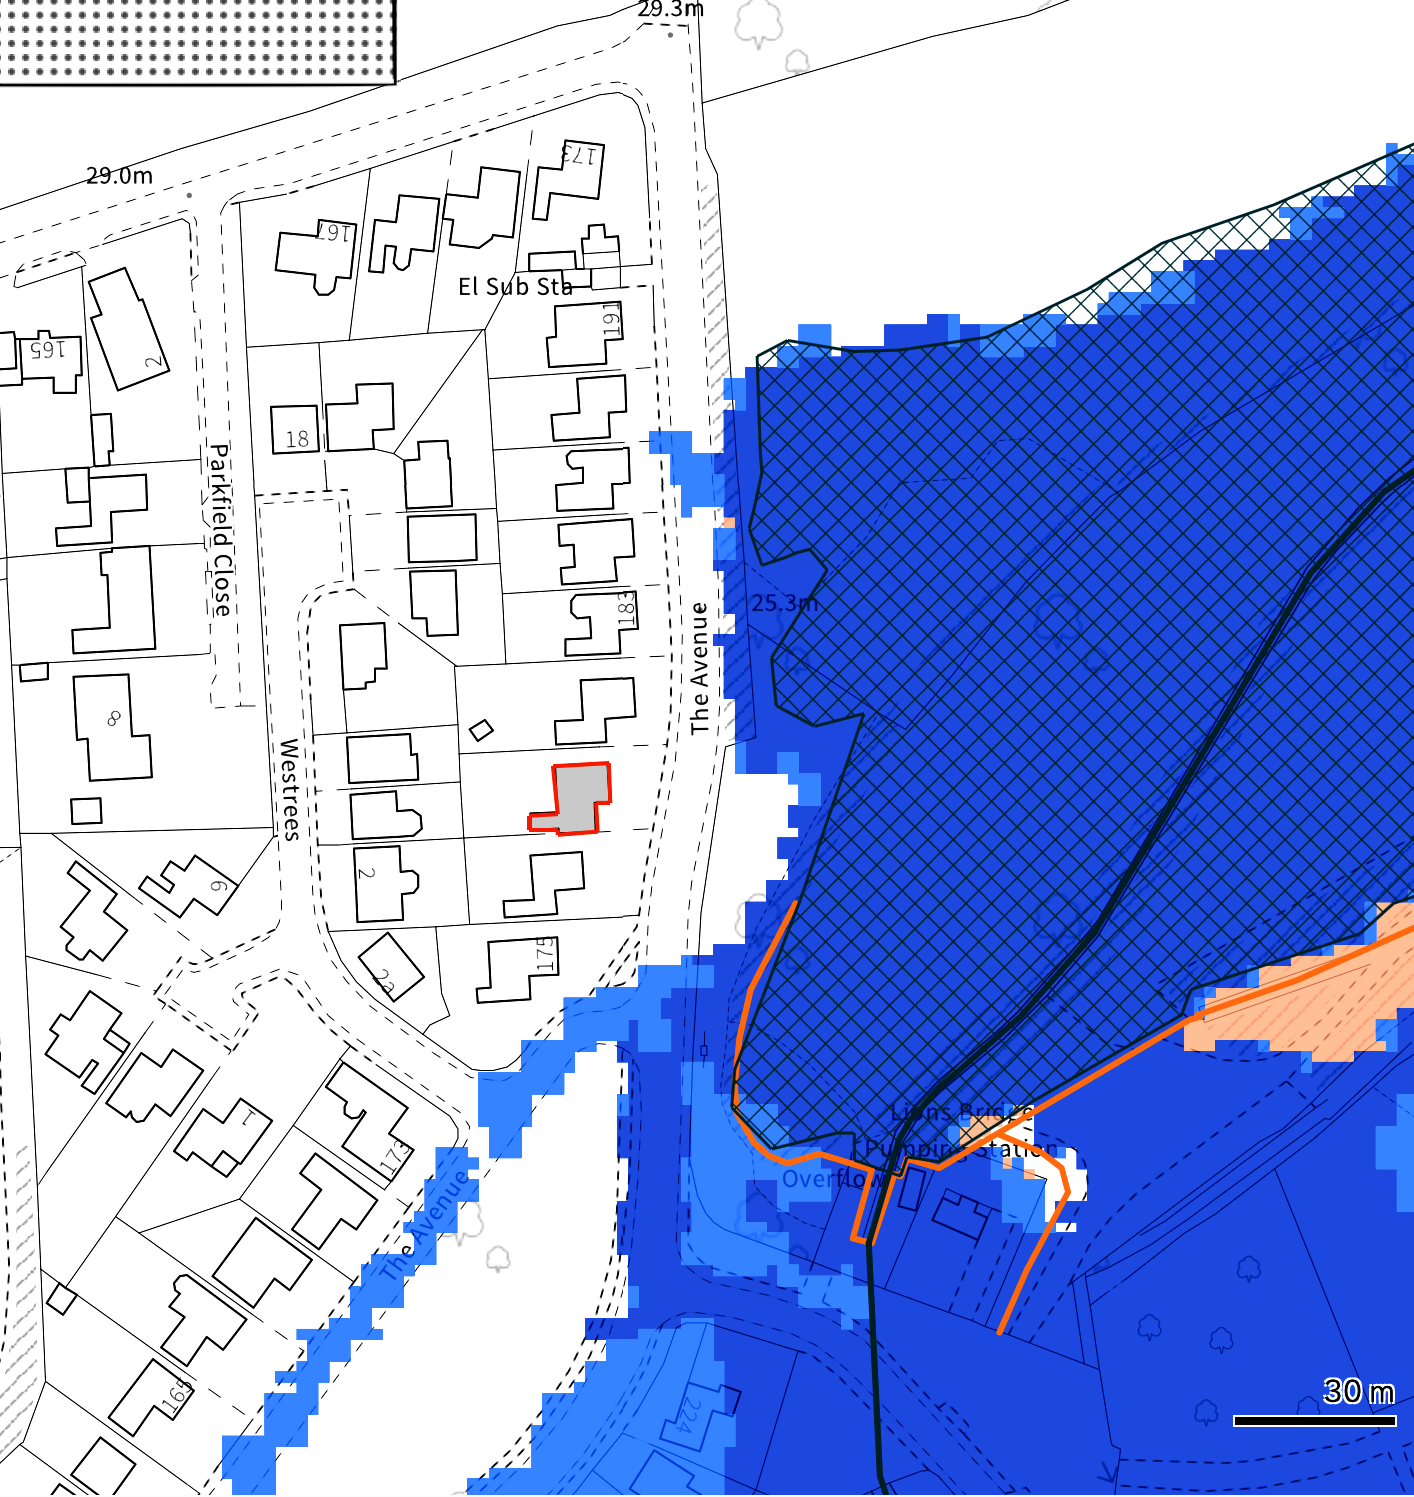
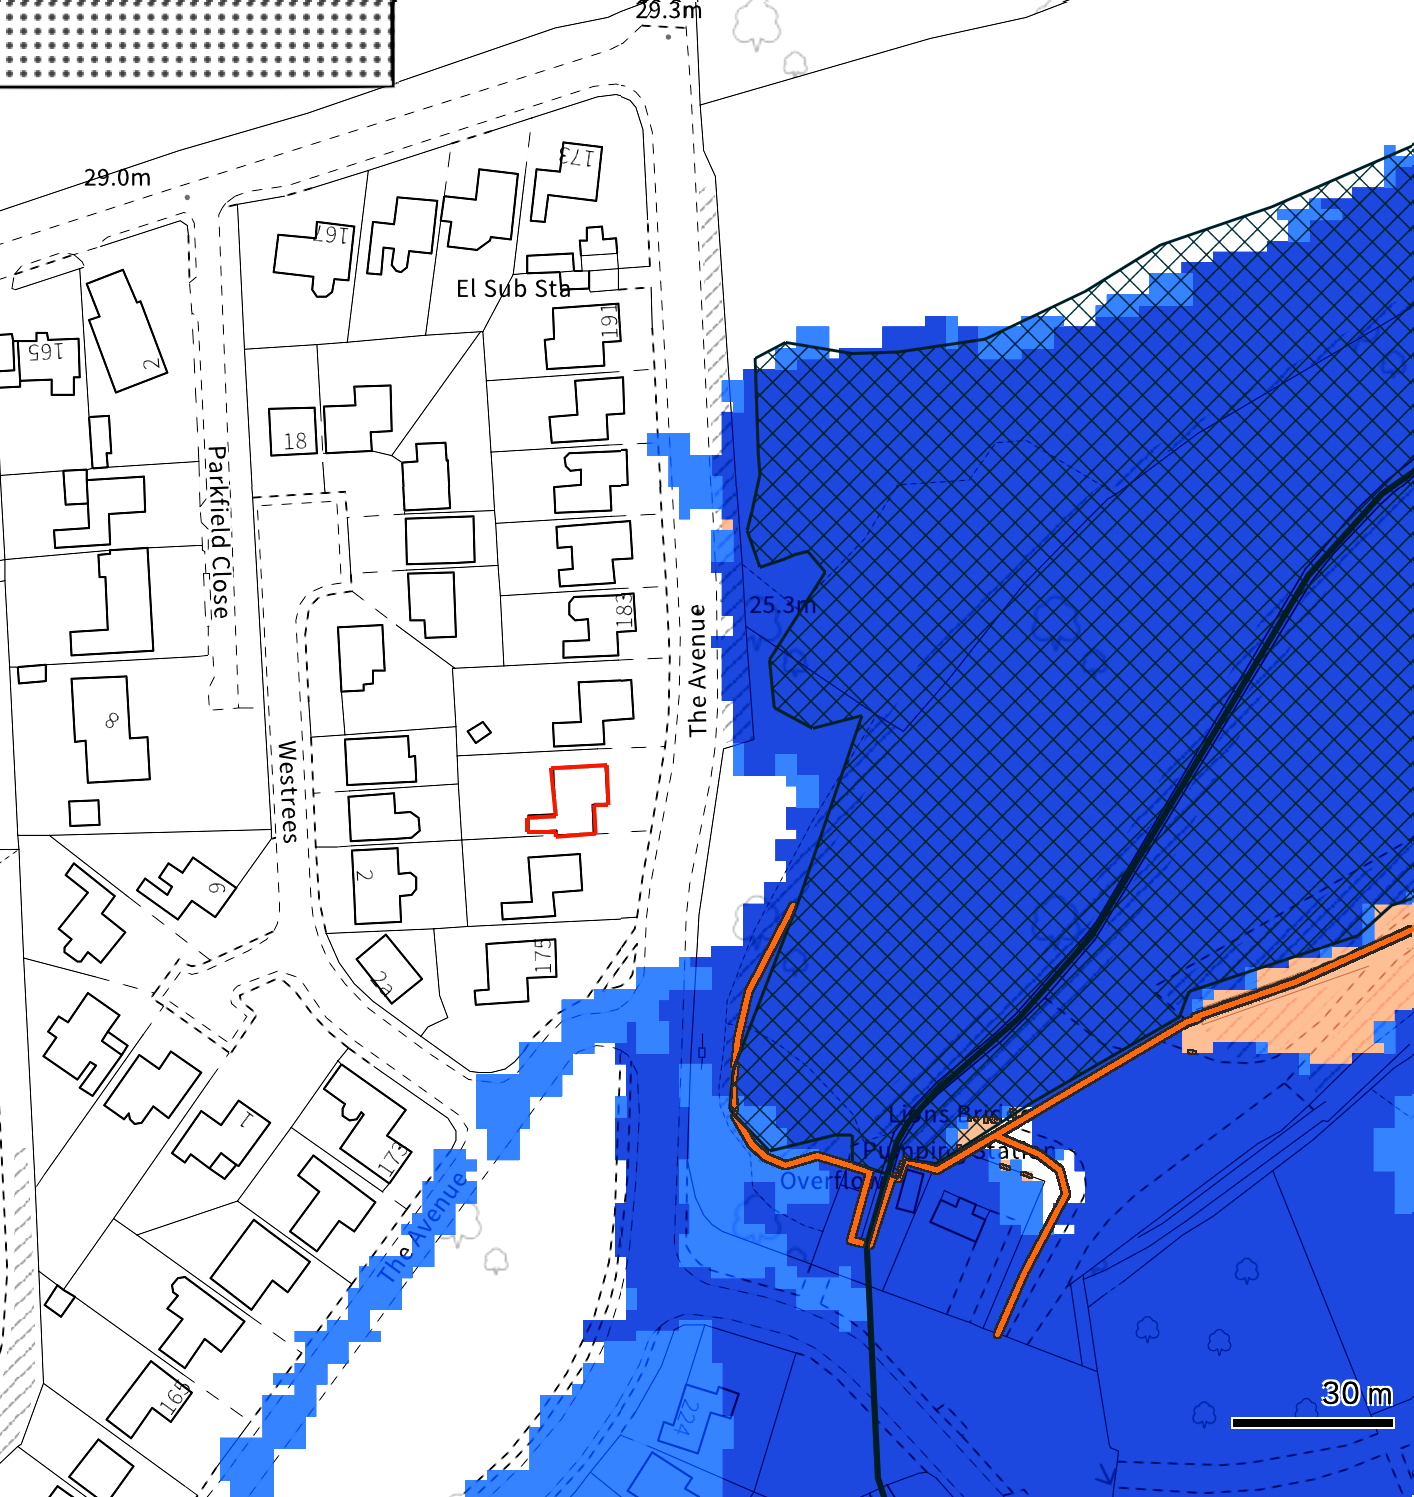
updated legend groups spacing and defences styles in map and key

diff --git a/app/views/v3-7-0-3/product1-3.html b/app/views/v3-7-0-3/product1-3.html
@@ -242,12 +242,11 @@
             <div class="map-legend"style="height: 876px">
               <div class="map-legend-parameters">
 
-                    <div class="parameter">
-                  <h3 class="govuk-heading-s">Flood zones 2 and 3</h3>
+                    <div class="parameter" style="padding-bottom: 30px;">
+                  <h3 class="govuk-heading-s">Flood zones</h3>
                   <p class="govuk-body">Present day, and climate change</p>
                 </div>
 
-<hr class="govuk-section-break govuk-section-break--m govuk-section-break--visible" style="margin-bottom: 0px;">
 
                 <div class="parameter">
                   <h3 class="govuk-heading-s"> Your reference </h3>
@@ -266,12 +265,14 @@
                   </div>
 
                 <!-- Date -->
-                <div class="parameter">
+                    <div class="parameter" style="padding-bottom: 35px;">
                   <h3 class="govuk-heading-s"> Created </h3>
                   <p class="govuk-body"> 05/05/2026 10:29 </p>
                 </div>
               </div>
               <div class="map-legend-values">
+               <h3 class="govuk-heading-s" style="margin-bottom: -10px; margin-left: 8px;"> Key </h3>
+
                 <div class="value" style="margin-top: 1em;">
                   <div class="img"><div class="fm-c-layers__image fm-c-layers__image--query-polygon"><svg width="40" height="40" viewBox="0 0 40 40" fill="none"><path d="M9 9h22v22H9z"></path></svg></div></path></svg></div>
                   <div class="govuk-body" style="line-height: 2em;">Selected area</div>
@@ -291,11 +292,11 @@
                 </div>
 
                 <div class="value">
-                  <div class="img"><svg xmlns="http://www.w3.org/2000/svg" width="40" height="40" viewBox="0 0 40 40" fill-rule="evenodd" stroke-linejoin="round" stroke-miterlimit="2" xmlns:v="https://vecta.io/nano" class="fm-c-symbol" fill="#f47738"><path d="M8 17h24v6H8z"></path></svg></div>
+                  <div class="img"><svg xmlns="http://www.w3.org/2000/svg" width="40" height="40" viewBox="0 0 40 40" fill-rule="evenodd" stroke-linejoin="round" stroke-miterlimit="2" xmlns:v="https://vecta.io/nano" class="fm-c-symbol" fill="#f47738"><path d="M8 17h24v6H8z"></path><path d="M8 17h24" stroke="#000" stroke-width="2" fill="none"></path><path d="M8 23h24" stroke="#000" stroke-width="2" fill="none"></path></svg></div>
                   <div class="govuk-body" style="line-height: 2em;">Flood defence</div>
                 </div>
                 <div class="value">
-                  <div class="img"><div class="fm-c-layers__image fm-c-layers__image--icon"><svg xmlns="http://www.w3.org/2000/svg" width="40" height="40" viewBox="0 0 40 40" fill-rule="evenodd" stroke-linejoin="round" stroke-miterlimit="2" xmlns:v="https://vecta.io/nano" class="fm-c-symbol" fill="#12393d"><path d="M8 17h24v6H8z"></path></svg></div></div>
+                  <div class="img"><div class="fm-c-layers__image fm-c-layers__image--icon"><svg xmlns="http://www.w3.org/2000/svg" width="40" height="40" viewBox="0 0 40 40" fill-rule="evenodd" stroke-linejoin="round" stroke-miterlimit="2" xmlns:v="https://vecta.io/nano" class="fm-c-symbol" fill="#12393d"><path d="M8 17h24v6H8z"></path><path d="M8 17h24" stroke="#000" stroke-width="2" fill="none"></path><path d="M8 23h24" stroke="#000" stroke-width="2" fill="none"></path></svg></div></div>
                   <div class="govuk-body" style="line-height: 2em; ">Main river</div>
                 </div>
                 <div class="value">
@@ -324,12 +325,11 @@
 
     
               <div class="map-legend-parameters">
-                  <div class="parameter">
-                  <h3 class="govuk-heading-s">Surface water</h3>
+                    <div class="parameter" style="padding-bottom: 25px;">
+                  <h3 class="govuk-heading-s"">Surface water</h3>
                   <p class="govuk-body">1 in 100, present day</p>
                 </div>
 
-<hr class="govuk-section-break govuk-section-break--m govuk-section-break--visible" style="margin-bottom: 0px;">
 
                 <div class="parameter">
                   <h3 class="govuk-heading-s"> Your reference </h3>
@@ -341,12 +341,14 @@
                   <p class="govuk-body"> 395360/340050 </p>
                 </div>
                 <!-- Date -->
-                <div class="parameter">
+                    <div class="parameter" style="padding-bottom: 35px;">
                   <h3 class="govuk-heading-s"> Created </h3>
                   <p class="govuk-body"> 05/05/2026 10:29 </p>
                 </div>
               </div>
               <div class="map-legend-values">
+               <h3 class="govuk-heading-s" style="margin-bottom: -10px; margin-left: 8px;"> Key </h3>
+
                 <div class="value" style="margin-top: 1em;">
                   <div class="img"><div class="fm-c-layers__image fm-c-layers__image--query-polygon"><svg width="40" height="40" viewBox="0 0 40 40" fill="none"><path d="M9 9h22v22H9z"></path></svg></div></path></svg></div>
                   <div class="govuk-body" style="line-height: 2em;">Selected area</div>
@@ -356,11 +358,11 @@
                   <div class="govuk-body" style="line-height: 2em;">Full flood extent</div>
                 </div>
                 <div class="value">
-                  <div class="img"><svg xmlns="http://www.w3.org/2000/svg" width="40" height="40" viewBox="0 0 40 40" fill-rule="evenodd" stroke-linejoin="round" stroke-miterlimit="2" xmlns:v="https://vecta.io/nano" class="fm-c-symbol" fill="#f47738"><path d="M8 17h24v6H8z"></path></svg></div>
+                  <div class="img"><svg xmlns="http://www.w3.org/2000/svg" width="40" height="40" viewBox="0 0 40 40" fill-rule="evenodd" stroke-linejoin="round" stroke-miterlimit="2" xmlns:v="https://vecta.io/nano" class="fm-c-symbol" fill="#f47738"><path d="M8 17h24v6H8z"></path><path d="M8 17h24" stroke="#000" stroke-width="2" fill="none"></path><path d="M8 23h24" stroke="#000" stroke-width="2" fill="none"></path></svg></div>
                   <div class="govuk-body" style="line-height: 2em;">Flood defence</div>
                 </div>
                 <div class="value">
-                  <div class="img"><div class="fm-c-layers__image fm-c-layers__image--icon"><svg xmlns="http://www.w3.org/2000/svg" width="40" height="40" viewBox="0 0 40 40" fill-rule="evenodd" stroke-linejoin="round" stroke-miterlimit="2" xmlns:v="https://vecta.io/nano" class="fm-c-symbol" fill="#12393d"><path d="M8 17h24v6H8z"></path></svg></div></div>
+                  <div class="img"><div class="fm-c-layers__image fm-c-layers__image--icon"><svg xmlns="http://www.w3.org/2000/svg" width="40" height="40" viewBox="0 0 40 40" fill-rule="evenodd" stroke-linejoin="round" stroke-miterlimit="2" xmlns:v="https://vecta.io/nano" class="fm-c-symbol" fill="#12393d"><path d="M8 17h24v6H8z"></path><path d="M8 17h24" stroke="#000" stroke-width="2" fill="none"></path><path d="M8 23h24" stroke="#000" stroke-width="2" fill="none"></path></svg></div></div>
                   <div class="govuk-body" style="line-height: 2em; ">Main river</div>
                 </div>
                 <div class="value">
@@ -383,13 +385,13 @@
             <div class="map-legend" style="height: 656px;">
 
               <div class="map-legend-parameters">
-                    <div class="parameter">
+                    <div class="parameter" style="padding-bottom: 25px;">
                   <h3 class="govuk-heading-s">Surface water</h3>
                   <p class="govuk-body">1 in 100, climate change</p>
                 </div>
 
-<hr class="govuk-section-break govuk-section-break--m govuk-section-break--visible" style="margin-bottom: 0px;">
-                <div class="parameter">
+
+<div class="parameter">
                   <h3 class="govuk-heading-s"> Your reference </h3>
                   <p class="govuk-body"> Residential site </p>
                 </div>
@@ -399,12 +401,14 @@
                   <p class="govuk-body"> 395360/340050 </p>
                 </div>
                 <!-- Date -->
-                <div class="parameter">
+                    <div class="parameter" style="padding-bottom: 35px;">
                   <h3 class="govuk-heading-s"> Created </h3>
                   <p class="govuk-body"> 05/05/2026 10:29 </p>
                 </div>
               </div>
               <div class="map-legend-values">
+                <h3 class="govuk-heading-s" style="margin-bottom: -10px; margin-left: 8px;"> Key </h3>
+
                 <div class="value" style="margin-top: 1em;">
                   <div class="img"><div class="fm-c-layers__image fm-c-layers__image--query-polygon"><svg width="40" height="40" viewBox="0 0 40 40" fill="none"><path d="M9 9h22v22H9z"></path></svg></div></path></svg></div>
                   <div class="govuk-body" style="line-height: 2em;">Selected area</div>
@@ -414,11 +418,11 @@
                   <div class="govuk-body" style="line-height: 2em;">Full flood extent</div>
                 </div>
                 <div class="value">
-                  <div class="img"><svg xmlns="http://www.w3.org/2000/svg" width="40" height="40" viewBox="0 0 40 40" fill-rule="evenodd" stroke-linejoin="round" stroke-miterlimit="2" xmlns:v="https://vecta.io/nano" class="fm-c-symbol" fill="#f47738"><path d="M8 17h24v6H8z"></path></svg></div>
+                  <div class="img"><svg xmlns="http://www.w3.org/2000/svg" width="40" height="40" viewBox="0 0 40 40" fill-rule="evenodd" stroke-linejoin="round" stroke-miterlimit="2" xmlns:v="https://vecta.io/nano" class="fm-c-symbol" fill="#f47738"><path d="M8 17h24v6H8z"></path><path d="M8 17h24" stroke="#000" stroke-width="2" fill="none"></path><path d="M8 23h24" stroke="#000" stroke-width="2" fill="none"></path></svg></div>
                   <div class="govuk-body" style="line-height: 2em;">Flood defence</div>
                 </div>
                 <div class="value">
-                  <div class="img"><div class="fm-c-layers__image fm-c-layers__image--icon"><svg xmlns="http://www.w3.org/2000/svg" width="40" height="40" viewBox="0 0 40 40" fill-rule="evenodd" stroke-linejoin="round" stroke-miterlimit="2" xmlns:v="https://vecta.io/nano" class="fm-c-symbol" fill="#12393d"><path d="M8 17h24v6H8z"></path></svg></div></div>
+                  <div class="img"><div class="fm-c-layers__image fm-c-layers__image--icon"><svg xmlns="http://www.w3.org/2000/svg" width="40" height="40" viewBox="0 0 40 40" fill-rule="evenodd" stroke-linejoin="round" stroke-miterlimit="2" xmlns:v="https://vecta.io/nano" class="fm-c-symbol" fill="#12393d"><path d="M8 17h24v6H8z"></path><path d="M8 17h24" stroke="#000" stroke-width="2" fill="none"></path><path d="M8 23h24" stroke="#000" stroke-width="2" fill="none"></path></svg></div></div>
                   <div class="govuk-body" style="line-height: 2em; ">Main river</div>
                 </div>
                 <div class="value">
@@ -465,11 +469,11 @@
                   <div class="govuk-body" style="line-height: 2em;">Extent over 300mm</div>
                 </div>
                 <div class="value">
-                  <div class="img"><svg xmlns="http://www.w3.org/2000/svg" width="40" height="40" viewBox="0 0 40 40" fill-rule="evenodd" stroke-linejoin="round" stroke-miterlimit="2" xmlns:v="https://vecta.io/nano" class="fm-c-symbol" fill="#f47738"><path d="M8 17h24v6H8z"></path></svg></div>
+                  <div class="img"><svg xmlns="http://www.w3.org/2000/svg" width="40" height="40" viewBox="0 0 40 40" fill-rule="evenodd" stroke-linejoin="round" stroke-miterlimit="2" xmlns:v="https://vecta.io/nano" class="fm-c-symbol" fill="#f47738"><path d="M8 17h24v6H8z"></path><path d="M8 17h24" stroke="#000" stroke-width="2" fill="none"></path><path d="M8 23h24" stroke="#000" stroke-width="2" fill="none"></path></svg></div>
                   <div class="govuk-body" style="line-height: 2em;">Flood defence</div>
                 </div>
                 <div class="value">
-                  <div class="img"><div class="fm-c-layers__image fm-c-layers__image--icon"><svg xmlns="http://www.w3.org/2000/svg" width="40" height="40" viewBox="0 0 40 40" fill-rule="evenodd" stroke-linejoin="round" stroke-miterlimit="2" xmlns:v="https://vecta.io/nano" class="fm-c-symbol" fill="#12393d"><path d="M8 17h24v6H8z"></path></svg></div></div>
+                  <div class="img"><div class="fm-c-layers__image fm-c-layers__image--icon"><svg xmlns="http://www.w3.org/2000/svg" width="40" height="40" viewBox="0 0 40 40" fill-rule="evenodd" stroke-linejoin="round" stroke-miterlimit="2" xmlns:v="https://vecta.io/nano" class="fm-c-symbol" fill="#12393d"><path d="M8 17h24v6H8z"></path><path d="M8 17h24" stroke="#000" stroke-width="2" fill="none"></path><path d="M8 23h24" stroke="#000" stroke-width="2" fill="none"></path></svg></div></div>
                   <div class="govuk-body" style="line-height: 2em; ">Main river</div>
                 </div>
                 <div class="value">
@@ -516,11 +520,11 @@
                   <div class="govuk-body" style="line-height: 2em;">Extent over 600mm</div>
                 </div>
                 <div class="value">
-                  <div class="img"><svg xmlns="http://www.w3.org/2000/svg" width="40" height="40" viewBox="0 0 40 40" fill-rule="evenodd" stroke-linejoin="round" stroke-miterlimit="2" xmlns:v="https://vecta.io/nano" class="fm-c-symbol" fill="#f47738"><path d="M8 17h24v6H8z"></path></svg></div>
+                  <div class="img"><svg xmlns="http://www.w3.org/2000/svg" width="40" height="40" viewBox="0 0 40 40" fill-rule="evenodd" stroke-linejoin="round" stroke-miterlimit="2" xmlns:v="https://vecta.io/nano" class="fm-c-symbol" fill="#f47738"><path d="M8 17h24v6H8z"></path><path d="M8 17h24" stroke="#000" stroke-width="2" fill="none"></path><path d="M8 23h24" stroke="#000" stroke-width="2" fill="none"></path></svg></div>
                   <div class="govuk-body" style="line-height: 2em;">Flood defence</div>
                 </div>
                 <div class="value">
-                  <div class="img"><div class="fm-c-layers__image fm-c-layers__image--icon"><svg xmlns="http://www.w3.org/2000/svg" width="40" height="40" viewBox="0 0 40 40" fill-rule="evenodd" stroke-linejoin="round" stroke-miterlimit="2" xmlns:v="https://vecta.io/nano" class="fm-c-symbol" fill="#12393d"><path d="M8 17h24v6H8z"></path></svg></div></div>
+                  <div class="img"><div class="fm-c-layers__image fm-c-layers__image--icon"><svg xmlns="http://www.w3.org/2000/svg" width="40" height="40" viewBox="0 0 40 40" fill-rule="evenodd" stroke-linejoin="round" stroke-miterlimit="2" xmlns:v="https://vecta.io/nano" class="fm-c-symbol" fill="#12393d"><path d="M8 17h24v6H8z"></path><path d="M8 17h24" stroke="#000" stroke-width="2" fill="none"></path><path d="M8 23h24" stroke="#000" stroke-width="2" fill="none"></path></svg></div></div>
                   <div class="govuk-body" style="line-height: 2em; ">Main river</div>
                 </div>
                 <div class="value">
@@ -567,11 +571,11 @@
                   <div class="govuk-body" style="line-height: 2em;">Extent over 900mm</div>
                 </div>
                 <div class="value">
-                  <div class="img"><svg xmlns="http://www.w3.org/2000/svg" width="40" height="40" viewBox="0 0 40 40" fill-rule="evenodd" stroke-linejoin="round" stroke-miterlimit="2" xmlns:v="https://vecta.io/nano" class="fm-c-symbol" fill="#f47738"><path d="M8 17h24v6H8z"></path></svg></div>
+                  <div class="img"><svg xmlns="http://www.w3.org/2000/svg" width="40" height="40" viewBox="0 0 40 40" fill-rule="evenodd" stroke-linejoin="round" stroke-miterlimit="2" xmlns:v="https://vecta.io/nano" class="fm-c-symbol" fill="#f47738"><path d="M8 17h24v6H8z"></path><path d="M8 17h24" stroke="#000" stroke-width="2" fill="none"></path><path d="M8 23h24" stroke="#000" stroke-width="2" fill="none"></path></svg></div>
                   <div class="govuk-body" style="line-height: 2em;">Flood defence</div>
                 </div>
                 <div class="value">
-                  <div class="img"><div class="fm-c-layers__image fm-c-layers__image--icon"><svg xmlns="http://www.w3.org/2000/svg" width="40" height="40" viewBox="0 0 40 40" fill-rule="evenodd" stroke-linejoin="round" stroke-miterlimit="2" xmlns:v="https://vecta.io/nano" class="fm-c-symbol" fill="#12393d"><path d="M8 17h24v6H8z"></path></svg></div></div>
+                  <div class="img"><div class="fm-c-layers__image fm-c-layers__image--icon"><svg xmlns="http://www.w3.org/2000/svg" width="40" height="40" viewBox="0 0 40 40" fill-rule="evenodd" stroke-linejoin="round" stroke-miterlimit="2" xmlns:v="https://vecta.io/nano" class="fm-c-symbol" fill="#12393d"><path d="M8 17h24v6H8z"></path><path d="M8 17h24" stroke="#000" stroke-width="2" fill="none"></path><path d="M8 23h24" stroke="#000" stroke-width="2" fill="none"></path></svg></div></div>
                   <div class="govuk-body" style="line-height: 2em; ">Main river</div>
                 </div>
                 <div class="value">
@@ -618,11 +622,11 @@
                   <div class="govuk-body" style="line-height: 2em;">Extent over 1200mm</div>
                 </div>
                 <div class="value">
-                  <div class="img"><svg xmlns="http://www.w3.org/2000/svg" width="40" height="40" viewBox="0 0 40 40" fill-rule="evenodd" stroke-linejoin="round" stroke-miterlimit="2" xmlns:v="https://vecta.io/nano" class="fm-c-symbol" fill="#f47738"><path d="M8 17h24v6H8z"></path></svg></div>
+                  <div class="img"><svg xmlns="http://www.w3.org/2000/svg" width="40" height="40" viewBox="0 0 40 40" fill-rule="evenodd" stroke-linejoin="round" stroke-miterlimit="2" xmlns:v="https://vecta.io/nano" class="fm-c-symbol" fill="#f47738"><path d="M8 17h24v6H8z"></path><path d="M8 17h24" stroke="#000" stroke-width="2" fill="none"></path><path d="M8 23h24" stroke="#000" stroke-width="2" fill="none"></path></svg></div>
                   <div class="govuk-body" style="line-height: 2em;">Flood defence</div>
                 </div>
                 <div class="value">
-                  <div class="img"><div class="fm-c-layers__image fm-c-layers__image--icon"><svg xmlns="http://www.w3.org/2000/svg" width="40" height="40" viewBox="0 0 40 40" fill-rule="evenodd" stroke-linejoin="round" stroke-miterlimit="2" xmlns:v="https://vecta.io/nano" class="fm-c-symbol" fill="#12393d"><path d="M8 17h24v6H8z"></path></svg></div></div>
+                  <div class="img"><div class="fm-c-layers__image fm-c-layers__image--icon"><svg xmlns="http://www.w3.org/2000/svg" width="40" height="40" viewBox="0 0 40 40" fill-rule="evenodd" stroke-linejoin="round" stroke-miterlimit="2" xmlns:v="https://vecta.io/nano" class="fm-c-symbol" fill="#12393d"><path d="M8 17h24v6H8z"></path><path d="M8 17h24" stroke="#000" stroke-width="2" fill="none"></path><path d="M8 23h24" stroke="#000" stroke-width="2" fill="none"></path></svg></div></div>
                   <div class="govuk-body" style="line-height: 2em; ">Main river</div>
                 </div>
                 <div class="value">
@@ -668,11 +672,11 @@
                   <div class="govuk-body" style="line-height: 2em;">Extent over 2300mm</div>
                 </div>
                 <div class="value">
-                  <div class="img"><svg xmlns="http://www.w3.org/2000/svg" width="40" height="40" viewBox="0 0 40 40" fill-rule="evenodd" stroke-linejoin="round" stroke-miterlimit="2" xmlns:v="https://vecta.io/nano" class="fm-c-symbol" fill="#f47738"><path d="M8 17h24v6H8z"></path></svg></div>
+                  <div class="img"><svg xmlns="http://www.w3.org/2000/svg" width="40" height="40" viewBox="0 0 40 40" fill-rule="evenodd" stroke-linejoin="round" stroke-miterlimit="2" xmlns:v="https://vecta.io/nano" class="fm-c-symbol" fill="#f47738"><path d="M8 17h24v6H8z"></path><path d="M8 17h24" stroke="#000" stroke-width="2" fill="none"></path><path d="M8 23h24" stroke="#000" stroke-width="2" fill="none"></path></svg></div>
                   <div class="govuk-body" style="line-height: 2em;">Flood defence</div>
                 </div>
                 <div class="value">
-                  <div class="img"><div class="fm-c-layers__image fm-c-layers__image--icon"><svg xmlns="http://www.w3.org/2000/svg" width="40" height="40" viewBox="0 0 40 40" fill-rule="evenodd" stroke-linejoin="round" stroke-miterlimit="2" xmlns:v="https://vecta.io/nano" class="fm-c-symbol" fill="#12393d"><path d="M8 17h24v6H8z"></path></svg></div></div>
+                  <div class="img"><div class="fm-c-layers__image fm-c-layers__image--icon"><svg xmlns="http://www.w3.org/2000/svg" width="40" height="40" viewBox="0 0 40 40" fill-rule="evenodd" stroke-linejoin="round" stroke-miterlimit="2" xmlns:v="https://vecta.io/nano" class="fm-c-symbol" fill="#12393d"><path d="M8 17h24v6H8z"></path><path d="M8 17h24" stroke="#000" stroke-width="2" fill="none"></path><path d="M8 23h24" stroke="#000" stroke-width="2" fill="none"></path></svg></div></div>
                   <div class="govuk-body" style="line-height: 2em; ">Main river</div>
                 </div>
                 <div class="value">
@@ -745,11 +749,11 @@
                 </div>
 
                 <div class="value">
-                  <div class="img"><svg xmlns="http://www.w3.org/2000/svg" width="40" height="40" viewBox="0 0 40 40" fill-rule="evenodd" stroke-linejoin="round" stroke-miterlimit="2" xmlns:v="https://vecta.io/nano" class="fm-c-symbol" fill="#2B8CBE"><path d="M8 17h24v6H8z"></path></svg></div>
+                  <div class="img"><svg xmlns="http://www.w3.org/2000/svg" width="40" height="40" viewBox="0 0 40 40" fill-rule="evenodd" stroke-linejoin="round" stroke-miterlimit="2" xmlns:v="https://vecta.io/nano" class="fm-c-symbol" fill="#2B8CBE"><path d="M8 17h24v6H8z"></path><path d="M8 17h24" stroke="#000" stroke-width="2" fill="none"></path><path d="M8 23h24" stroke="#000" stroke-width="2" fill="none"></path></svg></div>
                   <div class="govuk-body" style="line-height: 2em;">Flood defence</div>
                 </div>
                 <div class="value">
-                  <div class="img"><div class="fm-c-layers__image fm-c-layers__image--icon"><svg xmlns="http://www.w3.org/2000/svg" width="40" height="40" viewBox="0 0 40 40" fill-rule="evenodd" stroke-linejoin="round" stroke-miterlimit="2" xmlns:v="https://vecta.io/nano" class="fm-c-symbol" fill="#12393d"><path d="M8 17h24v6H8z"></path></svg></div></div>
+                  <div class="img"><div class="fm-c-layers__image fm-c-layers__image--icon"><svg xmlns="http://www.w3.org/2000/svg" width="40" height="40" viewBox="0 0 40 40" fill-rule="evenodd" stroke-linejoin="round" stroke-miterlimit="2" xmlns:v="https://vecta.io/nano" class="fm-c-symbol" fill="#12393d"><path d="M8 17h24v6H8z"></path><path d="M8 17h24" stroke="#000" stroke-width="2" fill="none"></path><path d="M8 23h24" stroke="#000" stroke-width="2" fill="none"></path></svg></div></div>
                   <div class="govuk-body" style="line-height: 2em; ">Main river</div>
                 </div>
                 <div class="value">

diff --git a/.tmp/public/stylesheets/application.css b/.tmp/public/stylesheets/application.css
@@ -9181,7 +9181,7 @@ p + .govuk-heading-s,
 }
 #map-page .map-container .map-legend {
   border-left-width: 0;
-  width: 236px;
+  width: 230px;
   height: 640px;
   position: absolute;
   top: 0;
@@ -9205,11 +9205,11 @@ p + .govuk-heading-s,
 #map-page .map-container .map-legend .map-legend-parameters .parameter .govuk-heading-s {
   margin-top: 12px;
   margin-bottom: 5px;
-  margin-left: 8px;
+  margin-left: 10px;
 }
 #map-page .map-container .map-legend .map-legend-parameters .parameter .govuk-body {
   margin-bottom: 2px;
-  margin-left: 8px;
+  margin-left: 10px;
 }
 #map-page .map-container .map-legend .map-legend-values {
   flex-basis: 100%;

diff --git a/.tmp/public/stylesheets/unbranded.css b/.tmp/public/stylesheets/unbranded.css
@@ -9166,7 +9166,7 @@ p + .govuk-heading-s,
 }
 #map-page .map-container .map-legend {
   border-left-width: 0;
-  width: 236px;
+  width: 230px;
   height: 640px;
   position: absolute;
   top: 0;
@@ -9190,11 +9190,11 @@ p + .govuk-heading-s,
 #map-page .map-container .map-legend .map-legend-parameters .parameter .govuk-heading-s {
   margin-top: 12px;
   margin-bottom: 5px;
-  margin-left: 8px;
+  margin-left: 10px;
 }
 #map-page .map-container .map-legend .map-legend-parameters .parameter .govuk-body {
   margin-bottom: 2px;
-  margin-left: 8px;
+  margin-left: 10px;
 }
 #map-page .map-container .map-legend .map-legend-values {
   flex-basis: 100%;

diff --git a/app/assets/sass/application.scss b/app/assets/sass/application.scss
@@ -247,7 +247,7 @@
     }
     .map-legend {
       border-left-width: 0;
-      width: 236px;
+      width: 230px;
       height: 640px;
       position: absolute;
       top: 0;
@@ -273,12 +273,12 @@
           .govuk-heading-s {
             margin-top: 12px;
             margin-bottom: 5px;
-            margin-left: 8px;
+            margin-left: 10px;
 
           }
           .govuk-body {
             margin-bottom: 2px;
-            margin-left: 8px;
+            margin-left: 10px;
             
           }
         }